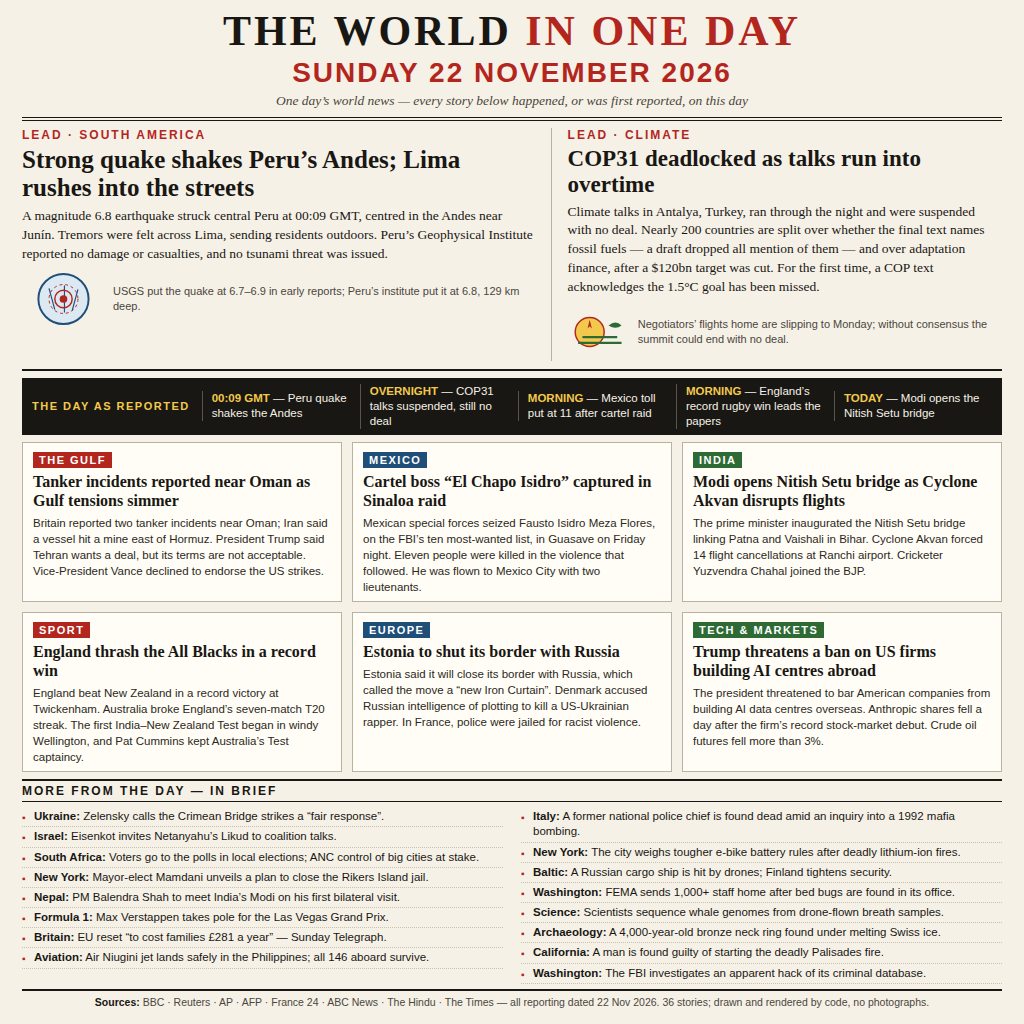
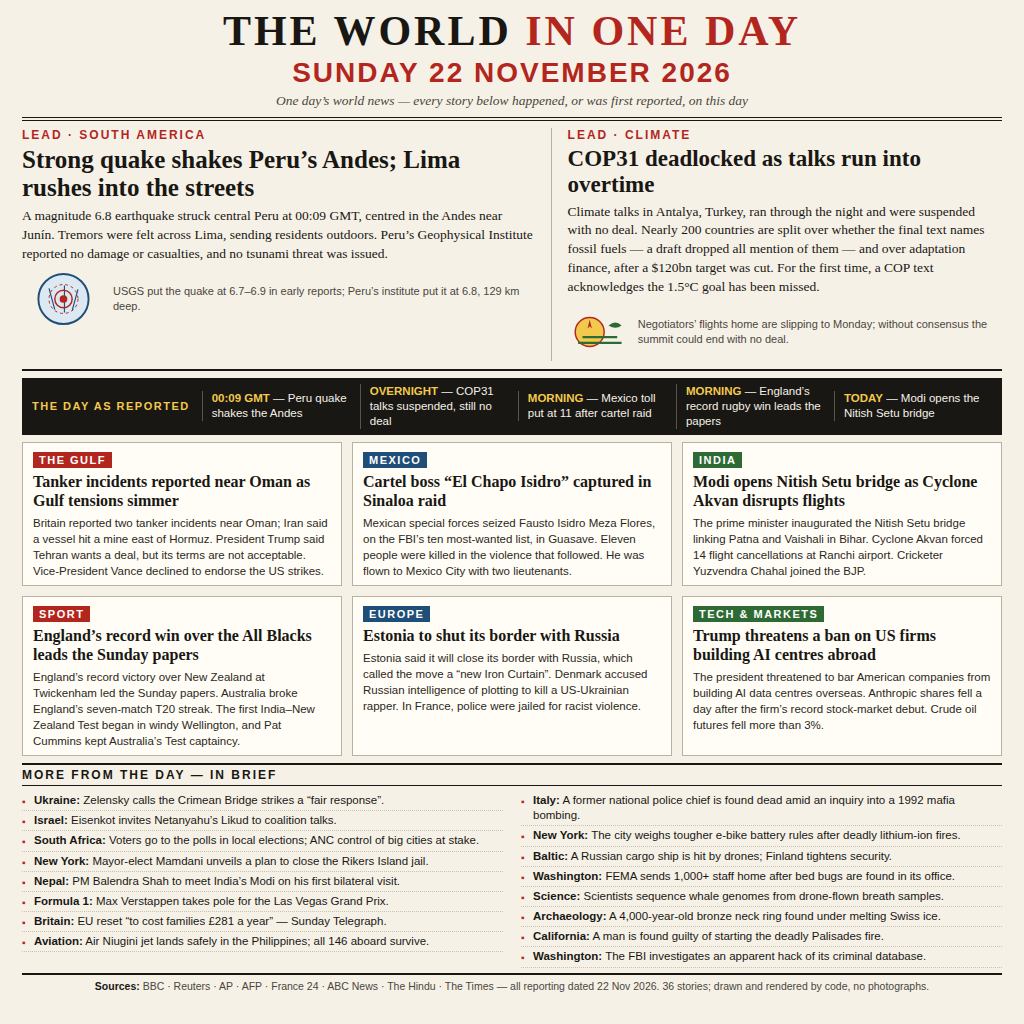
Fix date accuracy: drop 'Friday night' from Mexico panel; reframe England rugby win as Sunday-papers coverage

Changed region(s): [[0.0, 0.5, 0.9688, 1.0], [0.625, 0.5625, 0.6562, 0.5938]]

diff --git a/page.html b/page.html
@@ -107,7 +107,7 @@
     <div class="panel">
       <span class="tag blue">MEXICO</span>
       <h3>Cartel boss &ldquo;El Chapo Isidro&rdquo; captured in Sinaloa raid</h3>
-      <p>Mexican special forces seized Fausto Isidro Meza Flores, on the FBI&rsquo;s ten most-wanted list, in Guasave on Friday night. Eleven people were killed in the violence that followed. He was flown to Mexico City with two lieutenants.</p>
+      <p>Mexican special forces seized Fausto Isidro Meza Flores, on the FBI&rsquo;s ten most-wanted list, in Guasave. Eleven people were killed in the violence that followed. He was flown to Mexico City with two lieutenants.</p>
     </div>
     <div class="panel">
       <span class="tag green">INDIA</span>
@@ -116,8 +116,8 @@
     </div>
     <div class="panel">
       <span class="tag">SPORT</span>
-      <h3>England thrash the All Blacks in a record win</h3>
-      <p>England beat New Zealand in a record victory at Twickenham. Australia broke England&rsquo;s seven-match T20 streak. The first India&ndash;New Zealand Test began in windy Wellington, and Pat Cummins kept Australia&rsquo;s Test captaincy.</p>
+      <h3>England&rsquo;s record win over the All Blacks leads the Sunday papers</h3>
+      <p>England&rsquo;s record victory over New Zealand at Twickenham led the Sunday papers. Australia broke England&rsquo;s seven-match T20 streak. The first India&ndash;New Zealand Test began in windy Wellington, and Pat Cummins kept Australia&rsquo;s Test captaincy.</p>
     </div>
     <div class="panel">
       <span class="tag blue">EUROPE</span>
